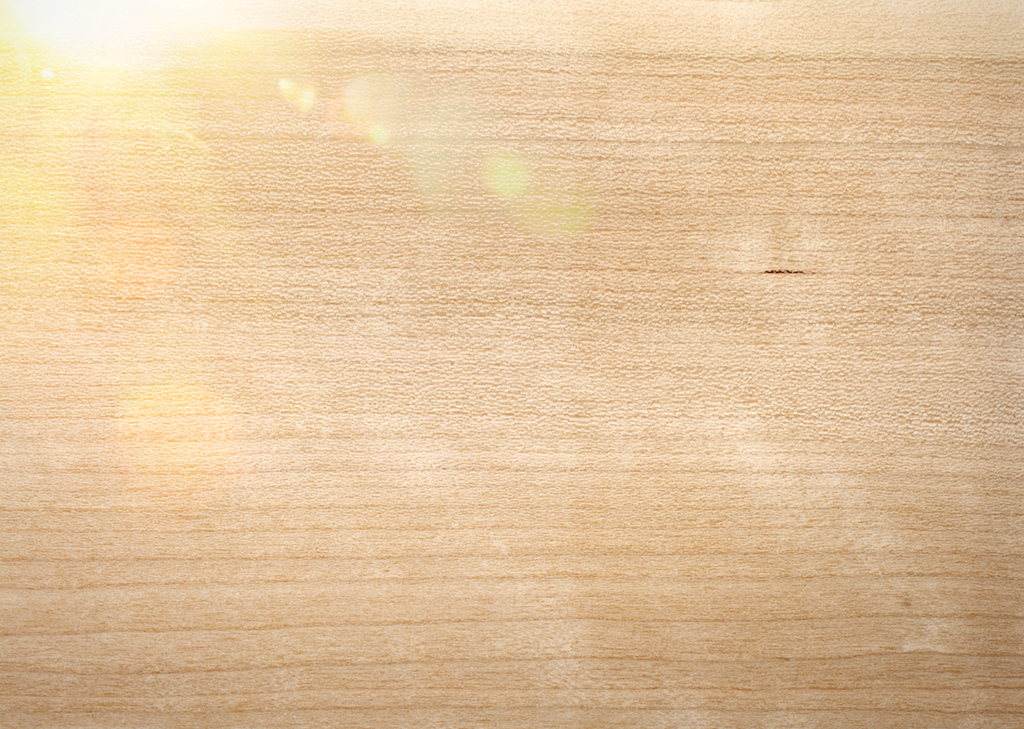
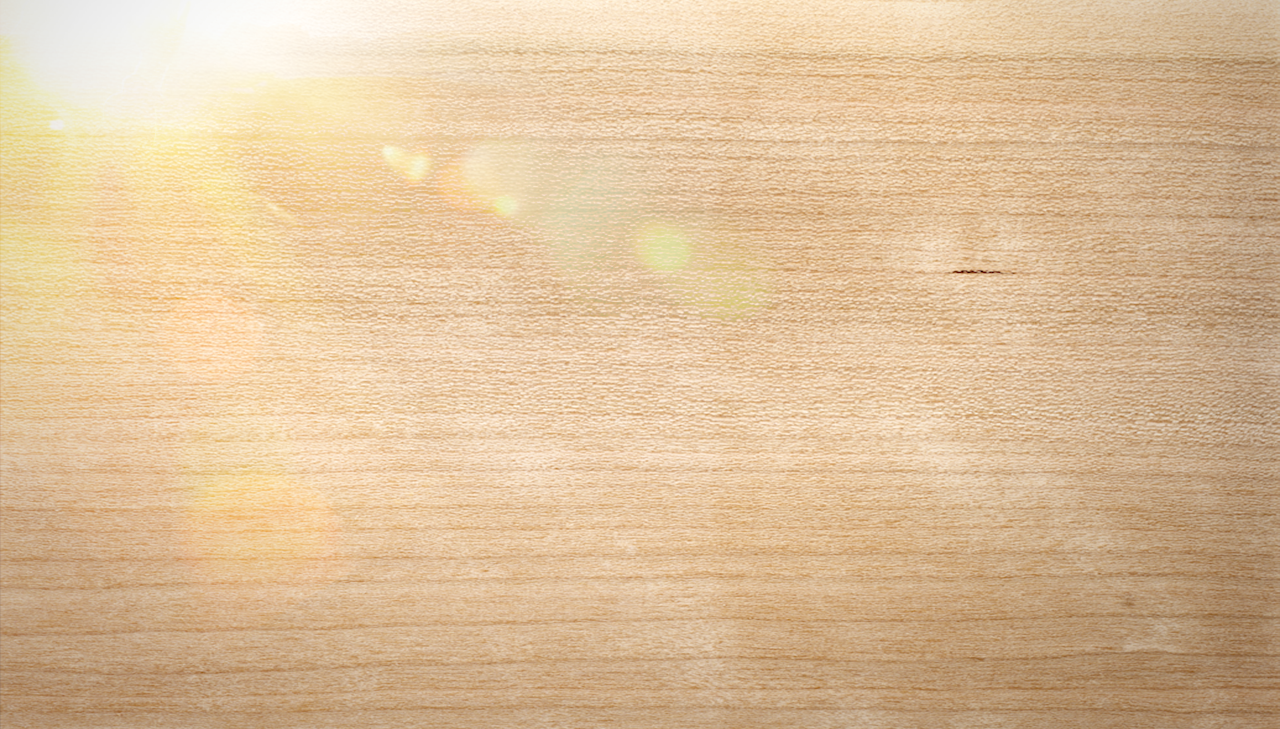
basic layout working

diff --git a/public/stylesheets/style.less b/public/stylesheets/style.less
@@ -6,6 +6,12 @@ a {
     color: #00B7FF;
 }
 
+h1, h2, h3, h4, h5, h6 {
+    font-weight: normal;
+    font-size: 100%;
+    margin: 0;
+}
+
 ul, li {
     list-style: none;
     margin: 0;
@@ -26,7 +32,7 @@ html, body, .basic-bg, .pages, .pages, .page {
 
 .basic-bg {
     background-image: url('/images/bg.png');
-    background-size: 100% auto;
+    background-size: auto 100%;
 }
 
 .pages {
@@ -40,7 +46,6 @@ html, body, .basic-bg, .pages, .pages, .page {
     right: 20px;
     bottom: 0;
     left: 20px;
-    background-position: 50% 40px;
     background-repeat: no-repeat;
 
     .pure-g, .pure-u-1-2 {
@@ -48,27 +53,41 @@ html, body, .basic-bg, .pages, .pages, .page {
     }
 
     .content {
-        margin: 0 auto;
+        margin: 9% auto 6%;
+        height: 75%;
+        min-height: 75%;
     }
 }
 
 .headline {
     background-image: url('/images/headline-bg.png');
     background-size: 547px auto;
+    background-position: 50% 40px;
 
     .content {
         width: 500px;
-        margin-top: 190px;
+        height: 65%;
+        min-height: 65%;
+        margin-top: 15%;
     }
 }
 
 .one, .two, .three {
-    background-image: url('/images/fullsize-bg.png');
-    background-size: 1100px auto;
-
+    background-size: 988px auto;
+    background-position: 50% 60px;
     .content {
-        width: 1000px;
+        width: 950px;
     }
+}
+
+.one {
+    background-image: url('/images/one-bg.png');
+}
+.two {
+    background-image: url('/images/two-bg.png');
+}
+.three {
+    background-image: url('/images/three-bg.png');
 }
 
 .s-1-2 {

diff --git a/public/stylesheets/style.css b/public/stylesheets/style.css
@@ -4,6 +4,15 @@ body {
 a {
   color: #00B7FF;
 }
+h1,
+h2,
+h3,
+h4,
+h5,
+h6 {
+  font-weight: normal;
+  font-size: 100%;
+}
 ul,
 li {
   list-style: none;
@@ -26,7 +35,7 @@ body,
 }
 .basic-bg {
   background-image: url('/images/bg.png');
-  background-size: 100% auto;
+  background-size: auto 100%;
 }
 .pages {
   position: relative;
@@ -38,7 +47,6 @@ body,
   right: 20px;
   bottom: 0;
   left: 20px;
-  background-position: 50% 40px;
   background-repeat: no-repeat;
 }
 .page .pure-g,
@@ -46,26 +54,40 @@ body,
   height: 100%;
 }
 .page .content {
-  margin: 0 auto;
+  margin: 9% auto 6%;
+  height: 75%;
+  min-height: 75%;
 }
 .headline {
   background-image: url('/images/headline-bg.png');
   background-size: 547px auto;
+  background-position: 50% 40px;
 }
 .headline .content {
   width: 500px;
-  margin-top: 190px;
+  height: 65%;
+  min-height: 65%;
+  margin-top: 15%;
 }
 .one,
 .two,
 .three {
-  background-image: url('/images/fullsize-bg.png');
-  background-size: 1100px auto;
+  background-size: 988px auto;
+  background-position: 50% 60px;
 }
 .one .content,
 .two .content,
 .three .content {
-  width: 1000px;
+  width: 950px;
+}
+.one {
+  background-image: url('/images/one-bg.png');
+}
+.two {
+  background-image: url('/images/two-bg.png');
+}
+.three {
+  background-image: url('/images/three-bg.png');
 }
 .s-1-2 {
   height: 50%;
